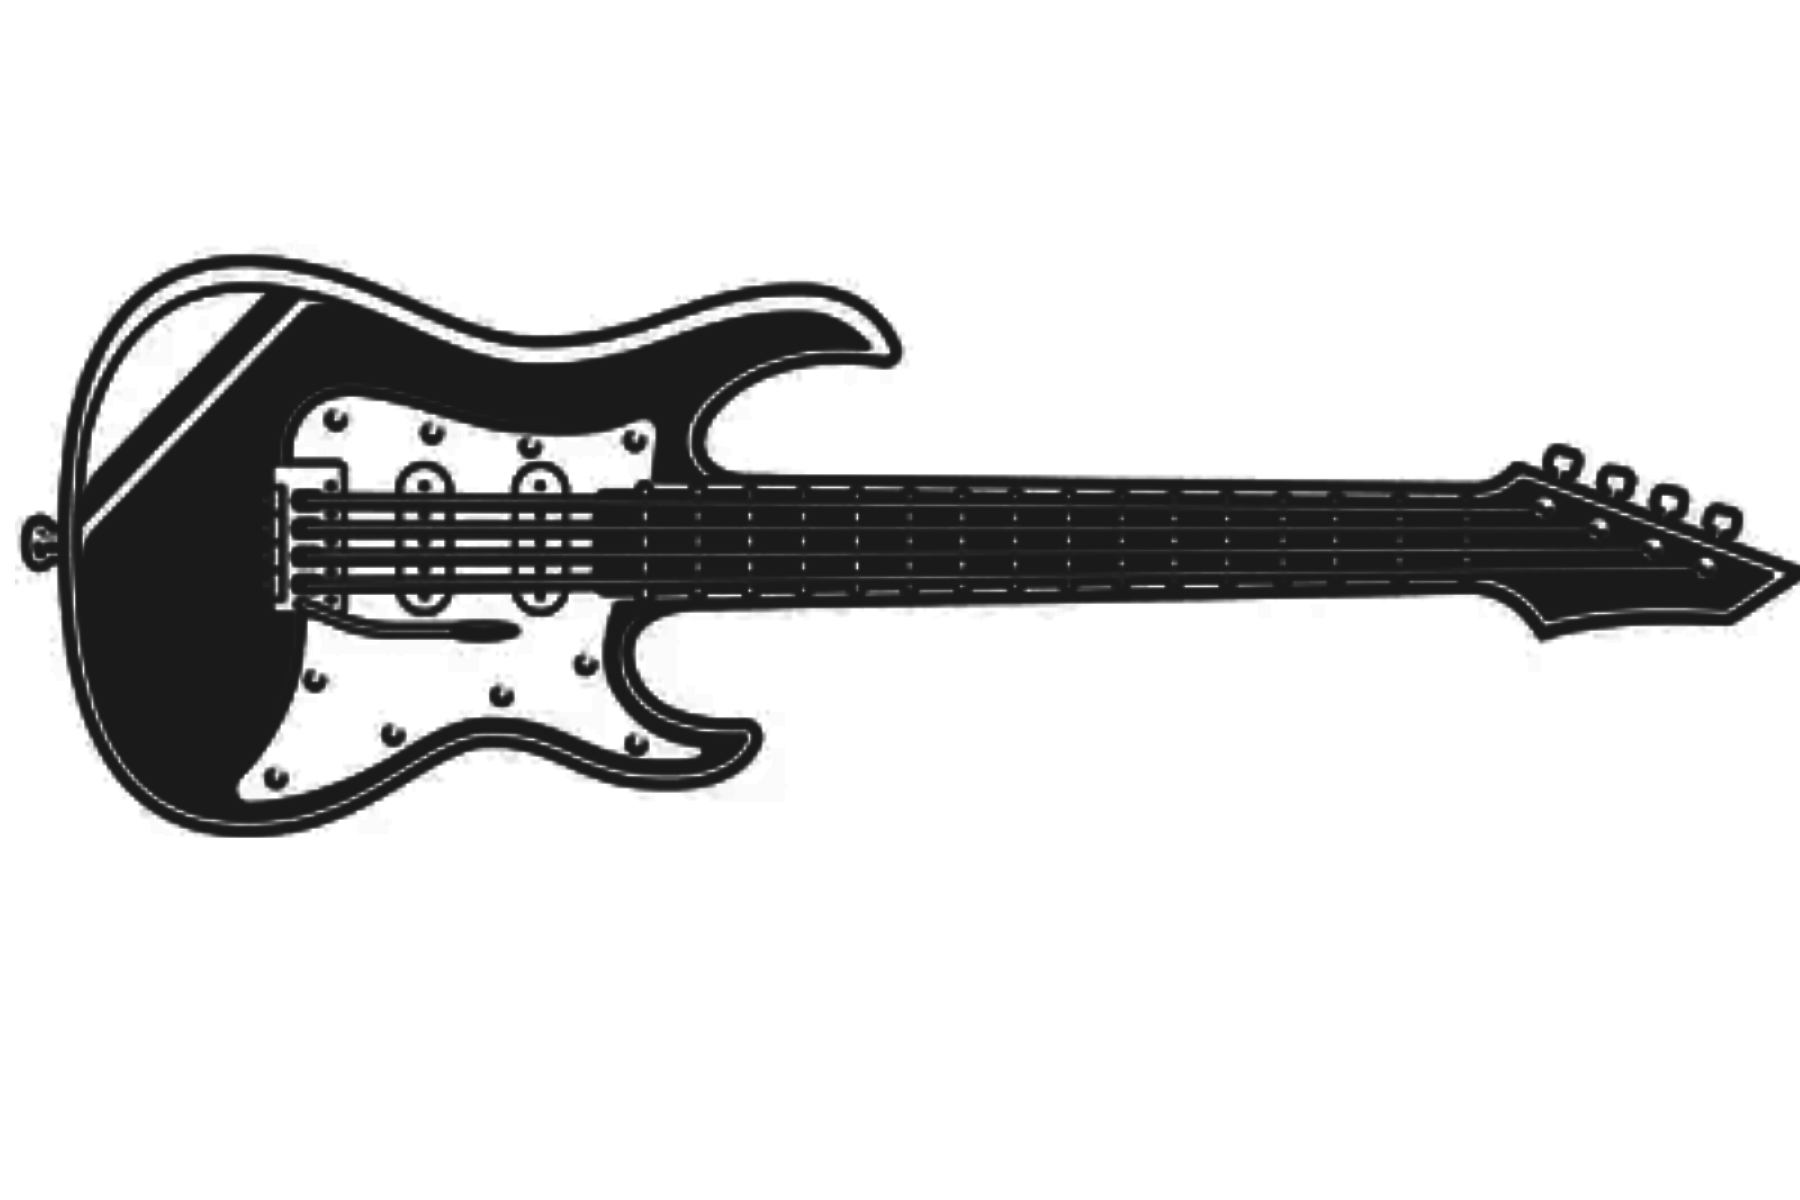
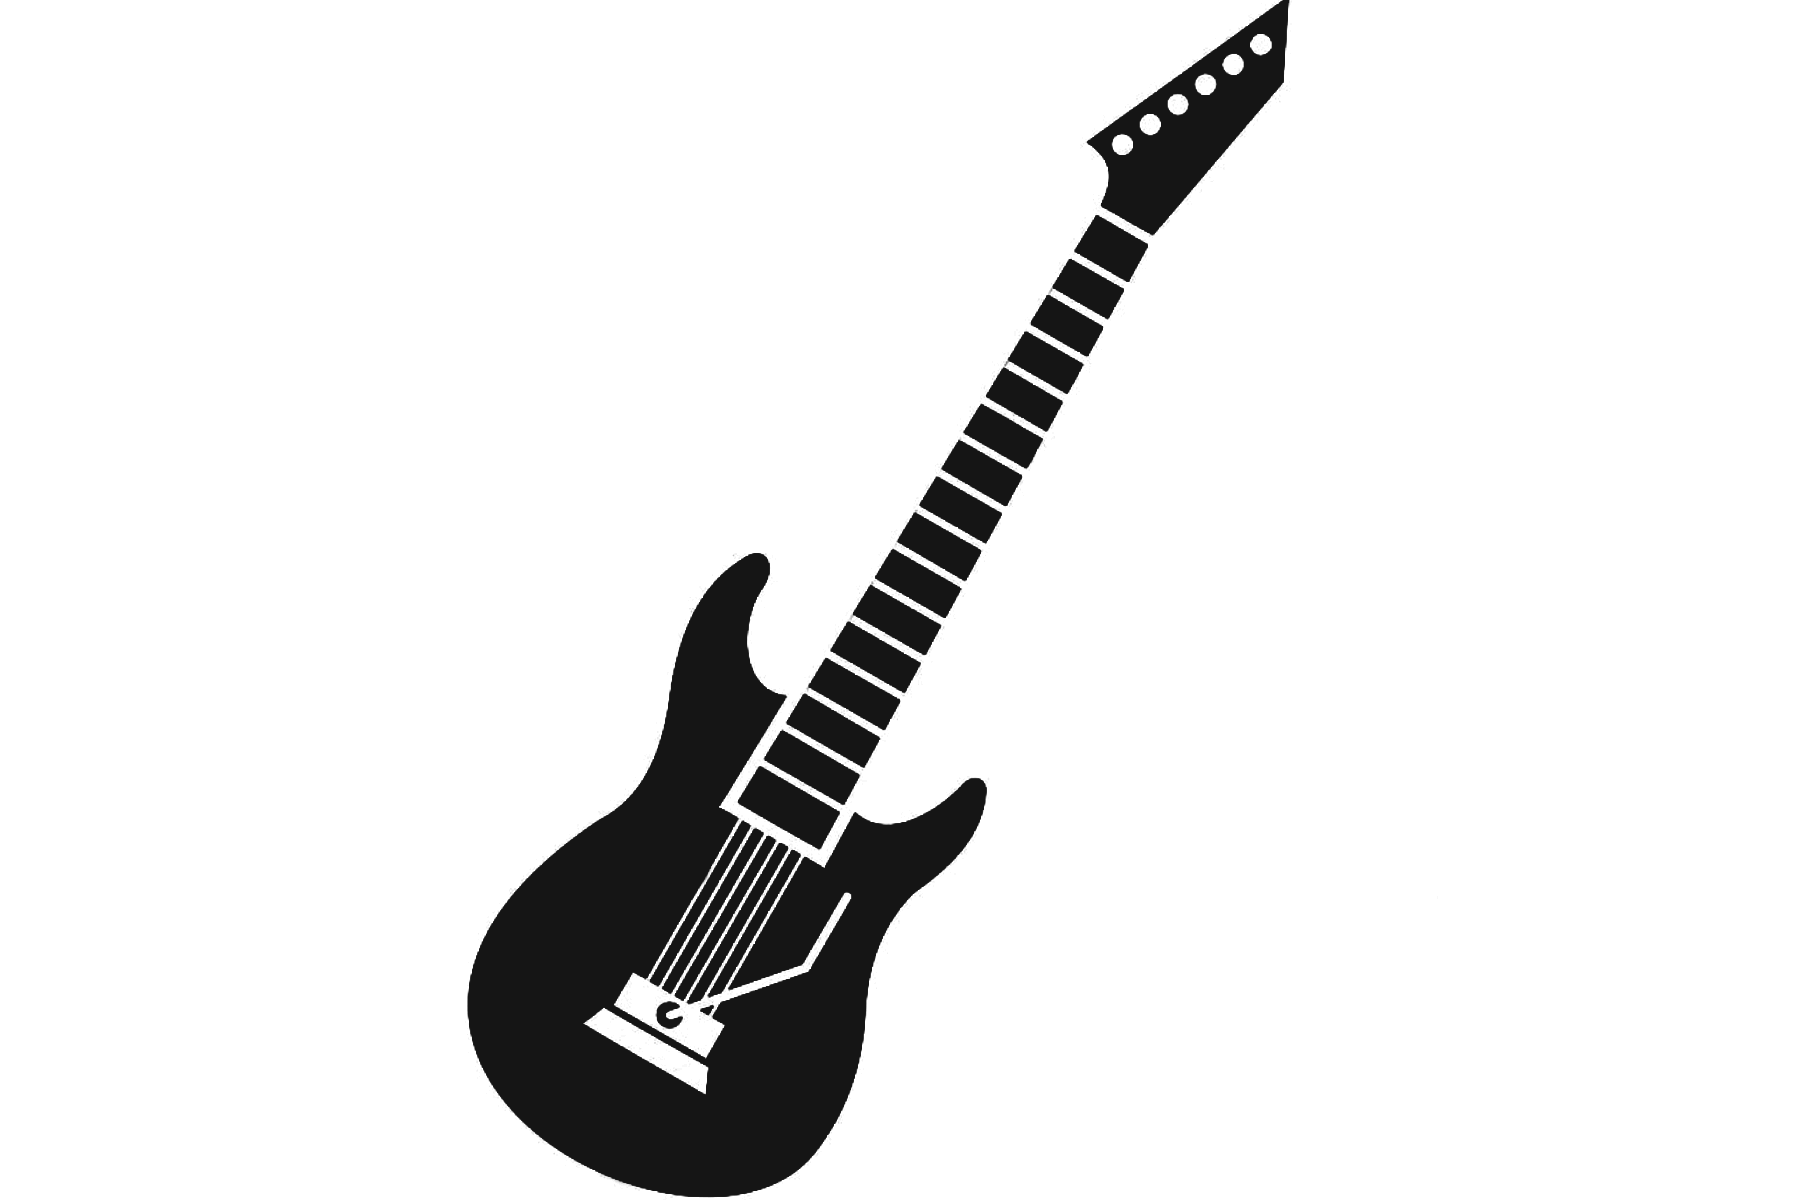
build musicplayer + adjust navigation routing for new pages

Changed region(s): [[0.0, 0.0, 1.0, 1.0]]

diff --git a/src/app/components/MusicPlayer/MusicPlayer.js b/src/app/components/MusicPlayer/MusicPlayer.js
@@ -1,0 +1,58 @@
+"use client";
+import styles from "../MusicPlayer/MusicPlayer.module.css";
+import { useState } from "react";
+
+export default function MusicPlayer() {
+    const [isOpen, setIsOpen] = useState(false);
+
+    const samples = [
+        { track: "Misery Business", album: "Riot!" },
+        { track: "Still Into You", album: "Paramore" },
+        { track: "Ain't It Fun", album: "Paramore" },
+        { track: "The Only Exception", album: "Brand New Eyes" },
+        { track: "Hard Times", album: "After Laughter" },
+        { track: "This Is Why", album: "This Is Why" },
+    ];
+
+    const [currentTrack, setCurrentTrack] = useState("Misery Business");
+    const [currentAlbum, setCurrentAlbum] = useState("Riot!");
+
+    const handleRefreshTrack = () => {
+        const random = Math.floor(Math.random() * samples.length);
+        setCurrentTrack(samples[random].track);
+        setCurrentAlbum(samples[random].album);
+    };
+
+    return (
+        <>
+            {/* Floating Tab */}
+            <div
+                className={styles.tab}
+                onClick={() => setIsOpen(!isOpen)}
+                onMouseEnter={() => setIsOpen(true)}
+                role='button'
+                tabIndex={0}
+                onKeyDown={(e) => e.key === "Enter" && setIsOpen(!isOpen)}
+                aria-label='Toggle Paramore Music Player'>
+                <span className={styles.tabText}>Music</span>
+            </div>
+
+            {/* Slide-in Panel */}
+            <div
+                className={`${styles.vinylPlayer} ${isOpen ? styles.open : ""}`}
+                onMouseLeave={() => setIsOpen(false)}>
+                <div className={styles.embed}>
+                    <iframe
+                        src='https://open.spotify.com/embed/playlist/37i9dQZF1DZ06evO4bEkUM?utm_source=generator&theme=0&autoplay=1&loop=1&mute=1'
+                        width='100%'
+                        height='152'
+                        frameBorder='0'
+                        allow='autoplay; clipboard-write; encrypted-media; fullscreen; picture-in-picture'
+                        loading='lazy'
+                        title='Paramore Radio'
+                    />
+                </div>
+            </div>
+        </>
+    );
+}

diff --git a/src/app/components/NextBtn/NextBtn.js b/src/app/components/NextBtn/NextBtn.js
@@ -1,23 +1,57 @@
 "use client";
-import React from "react";
-import styles from "../NextBtn/NextBtn.module.css";
 
-export default function Next({ href, value, target = "_self" }) {
-    function handleClick() {
-        if (href) {
-            window.open(href, target);
-            return;
+import { useRouter } from "next/navigation";
+import styles from "./NextBtn.module.css";
+
+export default function NextBtn({
+    backHref,
+    backOnClick,
+    backLabel,
+
+    nextHref,
+    nextOnClick,
+    nextLabel,
+
+    target = "_self", // "_self" or "_blank" only for external links
+}) {
+    const router = useRouter();
+
+    const handleBack = () => {
+        if (backHref) {
+            if (target === "_blank") {
+                window.open(backHref, "_blank");
+            } else {
+                router.push(backHref); // smooth internal navigation
+            }
+        } else if (backOnClick) {
+            backOnClick();
         }
-        if (onClick) {
-            onClick();
+    };
+
+    const handleNext = () => {
+        if (nextHref) {
+            if (target === "_blank") {
+                window.open(nextHref, "_blank");
+            } else {
+                router.push(nextHref); // smooth internal navigation
+            }
+        } else if (nextOnClick) {
+            nextOnClick();
         }
-    }
+    };
+
     return (
         <div className={styles.btnRow}>
             <button
-                onClick={handleClick}
+                onClick={handleBack}
+                className={styles.backBtn}>
+                {backLabel}
+            </button>
+
+            <button
+                onClick={handleNext}
                 className={styles.nextBtn}>
-                Next Up: {value}
+                {nextLabel}
             </button>
         </div>
     );

diff --git a/src/app/components/MusicPlayer/MusicPlayer.module.css b/src/app/components/MusicPlayer/MusicPlayer.module.css
@@ -1,0 +1,71 @@
+/* The panel — starts off-screen */
+.vinylPlayer {
+    position: fixed;
+    top: 5%;
+    left: -500px; /* Hidden — adjust based on your panel width */
+    width: 460px;
+    max-width: 90vw;
+    background: linear-gradient(to bottom, #f8f8f8, #e0e0e0);
+    border-radius: 0 20px 20px 0;
+    box-shadow: -10px 10px 40px rgba(0, 0, 0, 0.4);
+    padding: 12px 12px 12px 24px;
+    z-index: 9999;
+    transition: left 0.5s cubic-bezier(0.22, 1, 0.36, 1);
+}
+
+/* When open → slide in */
+.vinylPlayer.open {
+    left: 0;
+}
+
+/* The little tab that sticks out */
+.tab {
+    position: fixed;
+    top: 5%;
+    left: 0;
+    background: #ff3489;
+    color: white;
+    padding: 16px 12px 16px 6px;
+    border-radius: 0 20px 20px 0;
+    cursor: pointer;
+    z-index: 10000;
+    font-weight: bold;
+    writing-mode: vertical-lr;
+    box-shadow: -5px 5px 20px rgba(0, 0, 0, 0.3);
+    transition: all 0.3s ease;
+    user-select: none;
+}
+
+.tab:hover {
+    background: #ff4799;
+}
+
+.tabText {
+    font-size: 14px;
+    letter-spacing: 2px;
+    font-family: var(--font-display);
+}
+
+.embed iframe {
+    border-radius: 12px;
+}
+
+/* Mobile tap support */
+@media (max-width: 768px) {
+    .vinylPlayer {
+        width: 380px;
+        left: -400px;
+    }
+    .tab {
+        writing-mode: horizontal-tb;
+        padding: 12px 20px;
+        border-radius: 30px 0 0 30px;
+        top: auto;
+        bottom: 20px;
+        transform: none;
+    }
+
+    .tabText {
+        display: inline;
+    }
+}

diff --git a/src/app/page.js b/src/app/page.js
@@ -1,15 +1,16 @@
 import React from "react";
 import styles from "./page.module.css";
-import Link from "next/link";
+import Next from "./components/NextBtn/NextBtn";
 
 export default function Home() {
     return (
         <div className={styles.page}>
-            <main className={styles.main}>
-                <Link href='/Band'>
-                    <button>Go to Band Page</button>
-                </Link>
-            </main>
+            <Next
+                nextLabel='Next up: Meet the Band'
+                nextHref='/Band'
+            />
+
+            <main className={styles.main}></main>
         </div>
     );
 }

diff --git a/src/app/layout.js b/src/app/layout.js
@@ -1,6 +1,7 @@
 import { Geist, Geist_Mono } from "next/font/google";
 import "./globals.css";
 import { Noto_Sans } from "next/font/google";
+import MusicPlayer from "./components/MusicPlayer/MusicPlayer";
 
 const geistSans = Geist({
     variable: "--font-geist-sans",
@@ -28,6 +29,7 @@ export default function RootLayout({ children }) {
         <html lang='en'>
             <body className={`${notoSans.variable} ${notoSans.variable}`}>
                 {children}
+                <MusicPlayer />
             </body>
         </html>
     );

diff --git a/src/app/components/NextBtn/NextBtn.module.css b/src/app/components/NextBtn/NextBtn.module.css
@@ -5,7 +5,8 @@
     bottom: 0;
     left: 0;
     width: 100%;
-    text-align: right;
+    display: flex;
+    justify-content: space-between;
 }
 .nextBtn {
     padding-right: 1rem;
@@ -15,6 +16,17 @@
     color: white;
     border: none;
     cursor: pointer;
-    margin: auto;
+
+    padding: 0.8rem;
+}
+.backBtn {
+    padding-right: 1rem;
+    font-family: var(--font-display);
+    font-size: 20px;
+    background: none;
+    color: white;
+    border: none;
+    cursor: pointer;
+
     padding: 0.8rem;
 }

diff --git a/src/app/Band/Hayley/page.js b/src/app/Band/Hayley/page.js
@@ -6,7 +6,11 @@ import BandMemberNext from "@/app/components/BandBtn/BandBtn";
 export default function Page() {
     return (
         <div>
-            <Next value='Their History' />
+            <Next
+                nextLabel='Next up: Their History'
+                backLabel='Previous: HomePage'
+                backHref='/'
+            />
             <div className={styles.content}>
                 <div className={styles.left}>
                     <div className={styles.flip}>

diff --git a/src/app/Band/Taylor/page.js b/src/app/Band/Taylor/page.js
@@ -6,7 +6,10 @@ import BandMemberNext from "@/app/components/BandBtn/BandBtn";
 export default function Page() {
     return (
         <div>
-            <Next value='Their History' />
+            <Next
+                nextLabel='Next Up: Their History'
+                backLabel='Previous: Homepage'
+            />
             <div className={styles.content}>
                 <div className={styles.left}>
                     <div className={styles.flip}>

diff --git a/src/app/Band/Zac/page.js b/src/app/Band/Zac/page.js
@@ -6,7 +6,10 @@ import BandMemberNext from "@/app/components/BandBtn/BandBtn";
 export default function Page() {
     return (
         <div>
-            <Next value='Their History' />
+            <Next
+                nextLabel='Next Up: Their History'
+                backLabel='Previous: Homepage'
+            />
             <div className={styles.content}>
                 <div className={styles.left}>
                     <div className={styles.flip}>

diff --git a/src/app/Band/Taylor/taylor.module.css b/src/app/Band/Taylor/taylor.module.css
@@ -20,12 +20,12 @@
     visibility: hidden;
 }
 .guitar {
-    width: 60%;
+    width: 80%;
     position: absolute;
     z-index: 1;
-    left: -3rem;
-    top: -2rem;
-    transform: rotate(215deg);
+    left: -14rem;
+    top: -6rem;
+    transform: rotate(-85deg);
 }
 .header {
     margin-left: 24rem;

diff --git a/src/app/Band/Zac/zac.module.css b/src/app/Band/Zac/zac.module.css
@@ -20,11 +20,12 @@
     visibility: hidden;
 }
 .drums {
-    width: 60%;
+    width: 70%;
     position: absolute;
     z-index: 1;
-    left: -10rem;
-    top: 10.5rem;
+    left: -12rem;
+    top: 10rem;
+    transform: rotate(2deg);
 }
 .header {
     margin-left: 24rem;

diff --git a/src/app/components/BandBtn/BandBtn.module.css b/src/app/components/BandBtn/BandBtn.module.css
@@ -17,8 +17,11 @@
     align-items: center;
 }
 .iconRight {
-    padding-left: 8px;
+    padding-left: 12px;
 }
 .iconLeft {
-    padding-right: 8px;
+    padding-right: 12px;
+}
+.bandBtn span {
+    margin-top: 0.5rem;
 }
